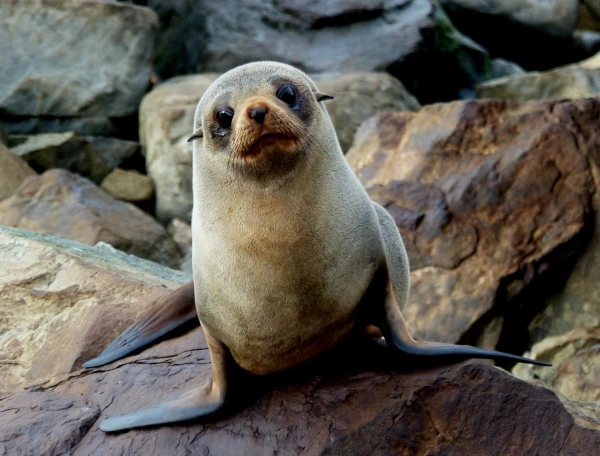
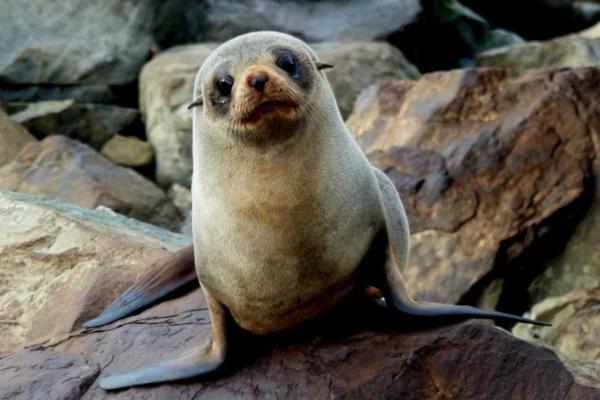
Melhorando o desempenho

diff --git a/index.html b/index.html
@@ -19,7 +19,7 @@
 
         <div class="logo-container">
             <a href="./index.html" class="logo-link">
-                <img src="./content/logo/logo.png" alt="Logo do mundo pet" title="Logo do mundo pet" class="logo-image" tabindex="0"/>
+                <img width="70px" height="70px" src="./content/logo/logo.png" alt="Logo do mundo pet" title="Logo do mundo pet" class="logo-image" tabindex="0"/>
                 <span class="logo-title" id="logo-title">Mundo Pet</span>
             </a>
         </div>
@@ -73,7 +73,7 @@
                     <picture>
                         <source media="(max-width: 350px)" srcset="./content/images/lobo-marinho-sp.webp">
                         <source media="(max-width: 600px)" srcset="./content/images/lobo-marinho-m.webp">
-                        <img src="./content/images/lobo-marinho.webp" alt="Imagem de um logo marinho" class="figure"/>
+                        <img width="800px" height="500px" src="./content/images/lobo-marinho.webp" alt="Imagem de um logo marinho" class="figure"/>
                         <figcaption class="figure-caption">
                             Reprodução: <a rel="external" href="https://unsplash.com/@kace?utm_source=unsplash&utm_medium=referral&utm_content=creditCopyText">Kace  Rodriguez</a>
                         </figcaption>
@@ -90,7 +90,7 @@
                     <picture>
                         <source media="(max-width: 350px)" srcset="./content/images/lontra-sp.webp">
                         <source media="(max-width: 600px)" srcset="./content/images/lontra-m.webp">
-                        <img src="./content/images/lontra.webp" alt="Imagem de uma lontra" class="figure"/>
+                        <img width="800px" height="500px" src="./content/images/lontra.webp" alt="Imagem de uma lontra" class="figure"/>
                     </picture>
                     <figcaption class="figure-caption">
                         Reprodução: <a rel="external" href="https://unsplash.com/@clarbner?utm_source=unsplash&utm_medium=referral&utm_content=creditCopyText">Julie Clarke</a>
@@ -105,7 +105,7 @@
                     <picture>
                         <source media="(max-width: 350px)" srcset="./content/images/golfinho-sp.webp">
                         <source media="(max-width: 600px)" srcset="./content/images/golfinho-m.webp">
-                        <img src="./content/images/golfinho.webp" alt="Imagem de um golfinho" class="figure"/>
+                        <img width="800px" height="500px" src="./content/images/golfinho.webp" alt="Imagem de um golfinho" class="figure"/>
                     </picture>
                     <figcaption class="figure-caption">
                         Reprodução: <a rel="external" href="https://unsplash.com/@bryteeyes3?utm_source=unsplash&utm_medium=referral&utm_content=creditCopyText">Ranae Smith</a>
@@ -122,7 +122,7 @@
                     <picture>
                         <source media="(max-width: 350px)" srcset="./content/images/foca-sp.webp">
                         <source media="(max-width: 600px)" srcset="./content/images/foca-m.webp">
-                        <img src="./content/images/foca.webp" alt="Uma foto de uma foca" class="figure"/>
+                        <img width="800px" height="500px" src="./content/images/foca.webp" alt="Uma foto de uma foca" class="figure"/>
                     </picture>
                     <figcaption class="figure-caption">
                         Reprodução: <a rel="external" href="https://unsplash.com/@shannonnicolevandy?utm_source=unsplash&utm_medium=referral&utm_content=creditCopyText">Shannon VanDenHeuvel</a>

diff --git a/styles/layouts/mobile.css b/styles/layouts/mobile.css
@@ -65,7 +65,7 @@
         margin-top: 13px;
     }
     .breadcrumb-li {
-        font-size: 0.7rem;
+        font-size: 0.6rem;
         font-weight: bold;
     }
     h1.title {
@@ -91,15 +91,6 @@
 @media screen and (max-width: 388px) {
     .logo-image {
         display: none;
-    }
-    .breadcrumb-li {
-        display: block;
-        padding: 10px 0;
-    }
-    .breadcrumb-li:first-child::before {
-        content: " / ";
-        color: var(--dark-secondary);
-        font-weight: bolder;
     }
     .footer-ul {
         column-count: 2;

diff --git a/styles/components/logo/logo.css b/styles/components/logo/logo.css
@@ -1,4 +1,3 @@
-@import url(./rotate-animation.css);
 .logo-container {
     cursor: pointer;
     width: max-content;
@@ -7,8 +6,6 @@
     float: left;
 }
 .logo-container .logo-image {
-    transform: translate(-100px, 0) rotate(0deg);
-    animation: logo-rotate .5s linear forwards;
     float: left;
 }
 .logo-container .logo-title {

diff --git a/styles/components/figure/figure.css b/styles/components/figure/figure.css
@@ -3,11 +3,10 @@
     margin: 1.25rem;
 }
 .figure {
-    width: 90%;
+    width: 100%;
     height: auto;
     border-radius: 0.1875rem;
     object-fit: cover;
-    aspect-ratio: 8/5;
 }
 .figure-caption {
     font-variant: small-caps; 
